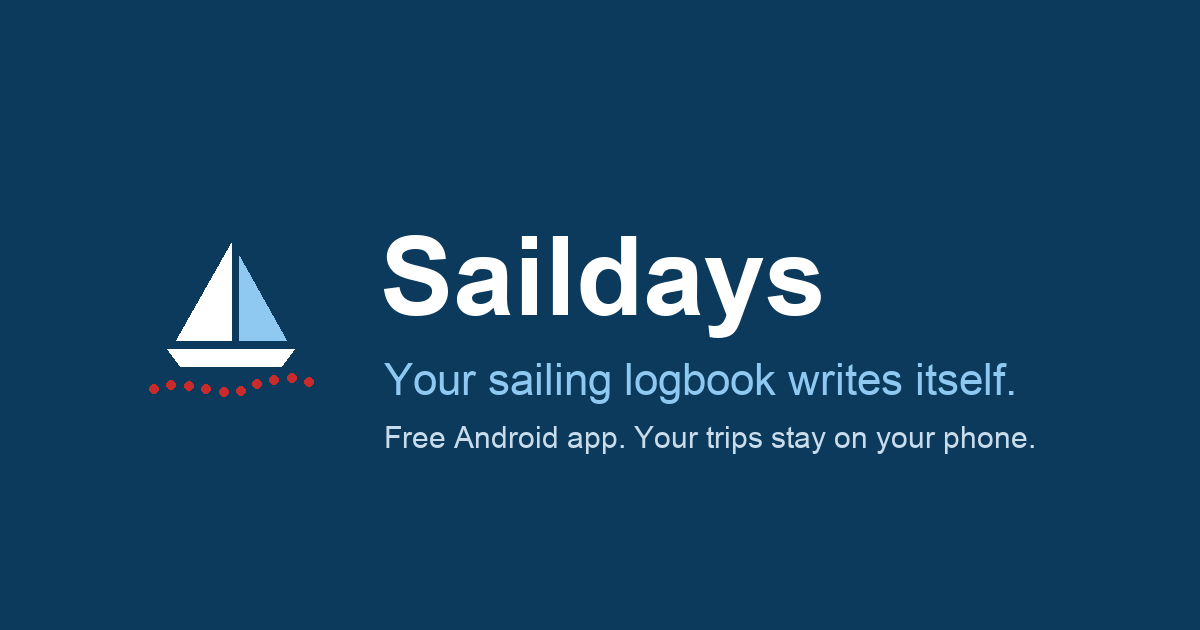
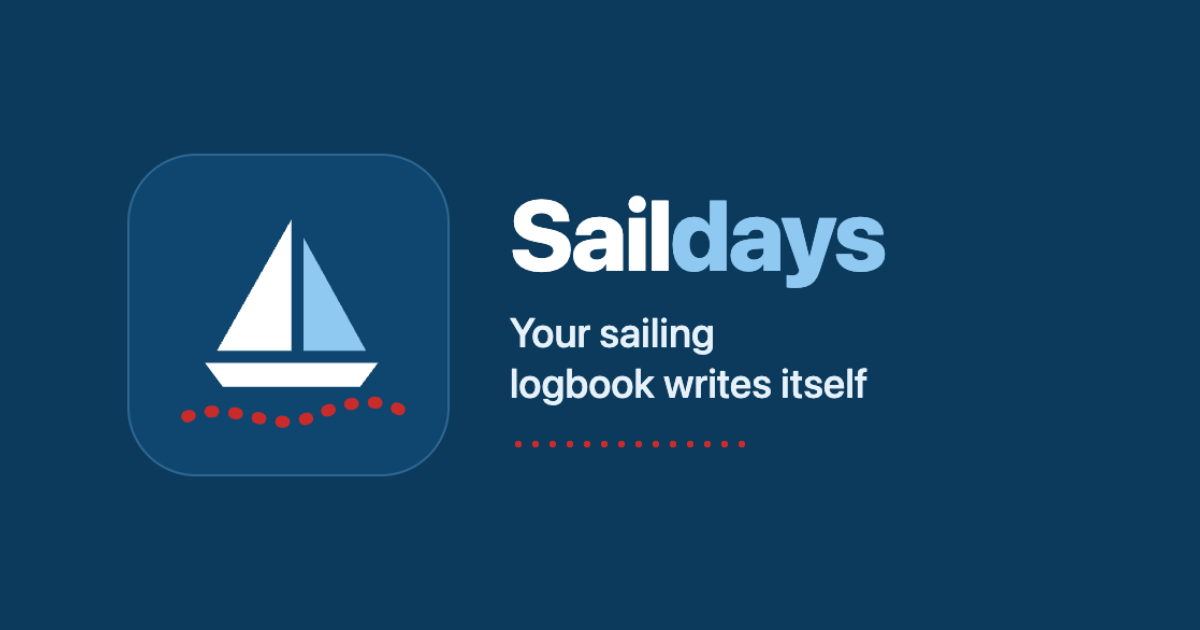
feat: skutečné screenshoty, OG obrázek, consent trigger, drobné opravy
Claude-Session: https://claude.ai/code/session_01M96xyxAYGpyRDyoKhbvErt

Changed region(s): [[0.1233, 0.3016, 0.8633, 0.754], [0.1233, 0.2413, 0.3392, 0.2714], [0.1233, 0.7238, 0.1542, 0.754]]

diff --git a/cs/index.html b/cs/index.html
@@ -132,7 +132,7 @@ j=d.createElement(s),dl=l!='dataLayer'?'&l='+l:'';j.async=true;j.src=
 <p class="sub">Aplikace pro Android zdarma. Bez účtu a bez reklam. Plavby zůstávají v telefonu.</p>
 <span class="soon">Brzy v Google Play</span>
 </div>
-<div class="phone"><img src="/img/shot-log-cs.webp" alt="Deník Saildays s časovou osou dne" width="540" height="1200" fetchpriority="high"></div>
+<div class="phone"><img src="/img/shot-hero-cs.webp" alt="Deník Saildays v tmavém režimu s časovou osou dne" width="540" height="1080" fetchpriority="high"></div>
 </div>
 </section>
 
@@ -141,19 +141,19 @@ j=d.createElement(s),dl=l!='dataLayer'?'&l='+l:'';j.async=true;j.src=
 <h2>Co umí</h2>
 <div class="grid">
 <div class="feature">
-<div class="phone"><img src="/img/shot-log-cs.webp" alt="Deník se změnami kurzu" width="540" height="1200" loading="lazy"></div>
+<div class="phone"><img src="/img/shot-log-cs.webp" alt="Deník s časovou osou dne a náhledem mapy" width="540" height="1200" loading="lazy"></div>
 <div><h3>Plavbu nahrává za vás</h3><p>Při vyplutí klepnete na Zahájit nahrávání a Saildays zaznamenává trasu i se zhasnutým displejem a bez signálu. Každou změnu kurzu o 30° a víc zapíše s časem a polohou začátku obratu a na zastavení i vyplutí se zeptá v notifikaci.</p></div>
 </div>
 <div class="feature">
-<div class="phone"><img src="/img/shot-note-cs.webp" alt="Poznámka s větrem, diktováním a fotkami" width="540" height="1200" loading="lazy"></div>
+<div class="phone"><img src="/img/shot-note-cs.webp" alt="Poznámka s větrem, manévrem a fotkami" width="540" height="1200" loading="lazy"></div>
 <div><h3>Všechno ostatní jedním klepnutím</h3><p>Motor, plachty i s refy, kotva, marina, bójka nebo vyvázání na břeh, vždy jedním klepnutím a s aktuální polohou. Poznámka zapíše vítr, manévr, diktovaný text i fotky a nechybí deník vysílačky ani tlačítko MOB, které ukáže cestu zpět k místu pádu.</p></div>
 </div>
 <div class="feature">
-<div class="phone"><img src="/img/shot-map-cs.webp" alt="Mapa s trasou a značením OpenSeaMap" width="540" height="1200" loading="lazy"></div>
+<div class="phone"><img src="/img/shot-map-cs.webp" alt="Mapa s trasou a značkami OpenSeaMap" width="540" height="1200" loading="lazy"></div>
 <div><h3>Skutečná námořní mapa</h3><p>Trasa na mapě OpenStreetMap se značením z OpenSeaMap, barevně podle plachet a motoru a se všemi zápisy z deníku. Jednou zobrazené oblasti zůstanou v telefonu, takže mapa funguje i bez signálu.</p></div>
 </div>
 <div class="feature">
-<div class="phone"><img src="/img/shot-export-cs.webp" alt="Souhrn plavby s exportem" width="540" height="1200" loading="lazy"></div>
+<div class="phone"><img src="/img/shot-export-cs.webp" alt="Souhrn na konci plavby s exportem" width="540" height="1200" loading="lazy"></div>
 <div><h3>Export, když ho potřebujete</h3><p>Ukončenou plavbu vyexportujete jako ZIP s trasou GPX pro libovolnou mapovou aplikaci a souborem JSON s celým deníkem a fotkami. Pošlete ho na Google Disk nebo mailem, nebo ho uložte do telefonu.</p></div>
 </div>
 </div>

diff --git a/index.html b/index.html
@@ -132,7 +132,7 @@ j=d.createElement(s),dl=l!='dataLayer'?'&l='+l:'';j.async=true;j.src=
 <p class="sub">Free Android app. No account, no ads. Your trips stay on your phone.</p>
 <span class="soon">Coming soon on Google Play</span>
 </div>
-<div class="phone"><img src="/img/shot-log-en.webp" alt="Saildays logbook with the day's timeline" width="540" height="1200" fetchpriority="high"></div>
+<div class="phone"><img src="/img/shot-hero-en.webp" alt="Saildays logbook in dark mode with the day's timeline" width="540" height="1080" fetchpriority="high"></div>
 </div>
 </section>
 
@@ -141,19 +141,19 @@ j=d.createElement(s),dl=l!='dataLayer'?'&l='+l:'';j.async=true;j.src=
 <h2>What it does</h2>
 <div class="grid">
 <div class="feature">
-<div class="phone"><img src="/img/shot-log-en.webp" alt="Logbook with course changes" width="540" height="1200" loading="lazy"></div>
+<div class="phone"><img src="/img/shot-log-en.webp" alt="Logbook with the day's timeline and a map preview" width="540" height="1200" loading="lazy"></div>
 <div><h3>Records the trip for you</h3><p>Tap Start recording when you cast off, and Saildays records your track even with the screen off and without signal. Every course change of 30° or more goes into the log with the time and position where the turn began, and stops and departures are suggested in a notification.</p></div>
 </div>
 <div class="feature">
-<div class="phone"><img src="/img/shot-note-en.webp" alt="Note with wind, dictation and photos" width="540" height="1200" loading="lazy"></div>
+<div class="phone"><img src="/img/shot-note-en.webp" alt="Note with wind, manoeuvre and photos" width="540" height="1200" loading="lazy"></div>
 <div><h3>Everything else in one tap</h3><p>Engine, sails with reefs, anchor, marina, mooring buoy or shore lines, each with one tap and your current position. Notes take wind, manoeuvre, dictation and photos, and there is a radio log and a man overboard button that points you back to the spot.</p></div>
 </div>
 <div class="feature">
-<div class="phone"><img src="/img/shot-map-en.webp" alt="Map with the track and OpenSeaMap seamarks" width="540" height="1200" loading="lazy"></div>
+<div class="phone"><img src="/img/shot-map-en.webp" alt="Map with the track and OpenSeaMap marks" width="540" height="1200" loading="lazy"></div>
 <div><h3>A real sea map</h3><p>Your track on OpenStreetMap with OpenSeaMap seamarks, coloured by sails and engine, with every log entry on it. Areas you have viewed stay on your phone, so the map works offline too.</p></div>
 </div>
 <div class="feature">
-<div class="phone"><img src="/img/shot-export-en.webp" alt="Trip summary with export" width="540" height="1200" loading="lazy"></div>
+<div class="phone"><img src="/img/shot-export-en.webp" alt="End-of-trip summary with export" width="540" height="1200" loading="lazy"></div>
 <div><h3>Export when you need it</h3><p>A finished trip goes out as a ZIP with a GPX track for any map app and a JSON file with the whole log and your photos. Send it to Google Drive or by e-mail, or keep it on your phone.</p></div>
 </div>
 </div>

diff --git a/cs/privacy/index.html b/cs/privacy/index.html
@@ -116,7 +116,7 @@ j=d.createElement(s),dl=l!='dataLayer'?'&l='+l:'';j.async=true;j.src=
 <p>Saildays neobsahuje žádný kód pro reklamy, analytiku ani hlášení pádů. Google Play může podle nastavení zařízení sbírat anonymní statistiky pádů a výkonu (Android vitals); dělá to Google, ne my.</p>
 
 <h2 id="web">Web</h2>
-<p>Zásady výše se týkají aplikace. Web saildays.app načítá Google Tag Manager a pro anonymní statistiky návštěvnosti používá Google Analytics 4. Google Analytics ukládá cookies a měří vaši návštěvu až po vašem souhlasu v cookie liště. Do té doby do zařízení nic neukládá a Google dostává nanejvýš anonymní signály bez cookies a identifikátorů (Google Consent Mode). Vaše volba se na rok uloží do cookie <code>saildays_consent</code>; po souhlasu ukládá Google Analytics své cookies <code>_ga</code> a <code>_ga_*</code>. Volbu změníte smazáním cookies pro saildays.app v prohlížeči, lišta se pak zobrazí znovu. Data zpracovává Google Ireland Limited podle <a href="https://policies.google.com/privacy?hl=cs">zásad ochrany soukromí Google</a>. Samotná aplikace Saildays žádnou analytiku neobsahuje.</p>
+<p>Tato část se týká webu saildays.app; zbytek zásad popisuje aplikaci. Web načítá Google Tag Manager a pro anonymní statistiky návštěvnosti používá Google Analytics 4. Google Analytics ukládá cookies a měří vaši návštěvu až po vašem souhlasu v cookie liště. Do té doby do zařízení nic neukládá a Google dostává nanejvýš anonymní signály bez cookies a identifikátorů (Google Consent Mode). Vaše volba se na rok uloží do cookie <code>saildays_consent</code>; po souhlasu ukládá Google Analytics své cookies <code>_ga</code> a <code>_ga_*</code>. Volbu změníte smazáním cookies pro saildays.app v prohlížeči, lišta se pak zobrazí znovu. Data zpracovává Google Ireland Limited podle <a href="https://policies.google.com/privacy?hl=cs">zásad ochrany soukromí Google</a>. Samotná aplikace Saildays žádnou analytiku neobsahuje.</p>
 
 <h2>Smazání dat</h2>
 <p>Všechna data jsou ve vašem telefonu. Plavbu smažete přímo v aplikaci; odinstalováním Saildays nebo vymazáním jejího úložiště se smažou všechny plavby. Fotky zůstávají v galerii, dokud je tam nesmažete. Zálohy ve vašem účtu Google spravujete v nastavení účtu Google.</p>

diff --git a/privacy/index.html b/privacy/index.html
@@ -116,7 +116,7 @@ j=d.createElement(s),dl=l!='dataLayer'?'&l='+l:'';j.async=true;j.src=
 <p>Saildays contains no advertising, no analytics and no crash reporting code. Google Play may collect anonymous crash and performance statistics (Android vitals) according to your device settings; that is done by Google, not by us.</p>
 
 <h2 id="website">Website</h2>
-<p>This policy above covers the app. The website saildays.app loads Google Tag Manager and uses Google Analytics 4 for anonymous visit statistics. Google Analytics stores cookies and measures your visit only after you agree in the cookie bar. Until then it stores nothing on your device, and Google receives at most anonymous signals without cookies or identifiers (Google Consent Mode). Your choice is stored for one year in the cookie <code>saildays_consent</code>; after you agree, Google Analytics stores its cookies <code>_ga</code> and <code>_ga_*</code>. You can change your choice by deleting cookies for saildays.app in your browser; the cookie bar then appears again. The data is processed by Google Ireland Limited under the <a href="https://policies.google.com/privacy">Google Privacy Policy</a>. The Saildays app itself contains no analytics.</p>
+<p>This section covers the saildays.app website; the rest of this policy covers the app. The website loads Google Tag Manager and uses Google Analytics 4 for anonymous visit statistics. Google Analytics stores cookies and measures your visit only after you agree in the cookie bar. Until then it stores nothing on your device, and Google receives at most anonymous signals without cookies or identifiers (Google Consent Mode). Your choice is stored for one year in the cookie <code>saildays_consent</code>; after you agree, Google Analytics stores its cookies <code>_ga</code> and <code>_ga_*</code>. You can change your choice by deleting cookies for saildays.app in your browser; the cookie bar then appears again. The data is processed by Google Ireland Limited under the <a href="https://policies.google.com/privacy">Google Privacy Policy</a>. The Saildays app itself contains no analytics.</p>
 
 <h2>Deleting your data</h2>
 <p>All data is on your phone. You can delete a trip in the app; uninstalling Saildays or clearing its storage deletes all trips. Photos stay in your gallery until you delete them there. Backups in your Google account can be managed in your Google account settings.</p>

diff --git a/README.md b/README.md
@@ -41,8 +41,8 @@ ID nejsou tajná (jsou vidět v kódu stránky):
 
 | Co | ID |
 |---|---|
-| GTM kontejner | `GTM-5BL8T5LD` (účet RUJZL.cz 106789, kontejner 267115838), publikovaná verze 2 „Saildays web - GA4 config + consent trigger“ |
-| GA4 | `G-9MD50SXETV` (Google tag v GTM, spouštění Initialization - All Pages; v GTM je i trigger `CE - consent_granted`) |
+| GTM kontejner | `GTM-5BL8T5LD` (účet RUJZL.cz 106789, kontejner 267115838), publikovaná verze 3 „Saildays web - consent trigger“ |
+| GA4 | `G-9MD50SXETV` (Google tag v GTM, spouštění Initialization - All Pages; tag má druhý trigger `CE - consent_granted`: první souhlasený `page_view` se tak odešle na téže stránce, protože po `consent update` se tag jen s All Pages znovu nespustí) |
 
 Na všech stránkách (4 + `404.html`) je v `<head>` inline blok: `gtag('consent','default')` vše `denied` s `wait_for_update: 500`, hned za ním obnovení volby z cookie `saildays_consent` (vracející se návštěvník) a pak GTM snippet, za `<body>` jeho `<noscript>` iframe. Na konci `<body>` se načítá `/js/cookie-consent.js?v=1` (při změně skriptu zvýšit `v`).
 
@@ -64,14 +64,14 @@ Ve složce `img/`:
 |---|---|
 | `icon.svg`, `logo.svg` | značka z `Saildays/branding/` (ikona slouží i jako favicon) |
 | `og.png` | náhled pro sdílení (`og:image`), 1200×630 |
-| `shot-<obrazovka>-<jazyk>.webp` | screenshoty `log`, `map`, `note`, `export` × `en`, `cs`; 540×1200, hero používá `shot-log-*` |
+| `shot-<obrazovka>-<jazyk>.webp` | screenshoty `log`, `map`, `note`, `export` × `en`, `cs`; 540×1200, `shot-hero-<jazyk>.webp` (540×1080, z `07-log-dark.png`) je jen v hero |
 
 ## Screenshoty
 
-Zatím jsou v `img/` náhradní screenshoty (tmavě modrá plocha s názvem obrazovky). Skutečné vzniknou z emulátoru do `~/GitHub/Saildays/store/screenshots/<jazyk>/` (1080×2400). Nahrazení, pro každou ze čtyř obrazovek a oba jazyky:
+Skutečné screenshoty z aplikace, zdroj `~/GitHub/Saildays/store/screenshots/`: `web/<jazyk>/shot-<name>-<jazyk>.webp` (už oříznuté, 540×1200) se kopírují do `img/` beze změny; hero vzniká z `<jazyk>/07-log-dark.png` (1080×2160):
 
 ```
-cd ~/GitHub/Saildays/store/screenshots/<jazyk> && cwebp -q 80 -resize 540 0 <png> -o ~/GitHub/saildays-web/img/shot-<name>-<jazyk>.webp
+cwebp -q 80 -resize 540 0 07-log-dark.png -o ~/GitHub/saildays-web/img/shot-hero-<jazyk>.webp
 ```
 
-Názvy souborů musí zůstat stejné (`shot-log-en.webp` atd.), stránky na ně odkazují. Výsledek musí mít 540×1200 a do 150 kB, pak `./check.sh` a `./deploy.sh`.
+`og.png` (1200×630) je `Saildays/store/feature-graphic.png` na pozadí `#0b3a5c`, šířka 1100, render headless Chrome. Názvy souborů musí zůstat, stránky na ně odkazují. Každý WebP do 150 kB, pak `./check.sh` a `./deploy.sh`.
